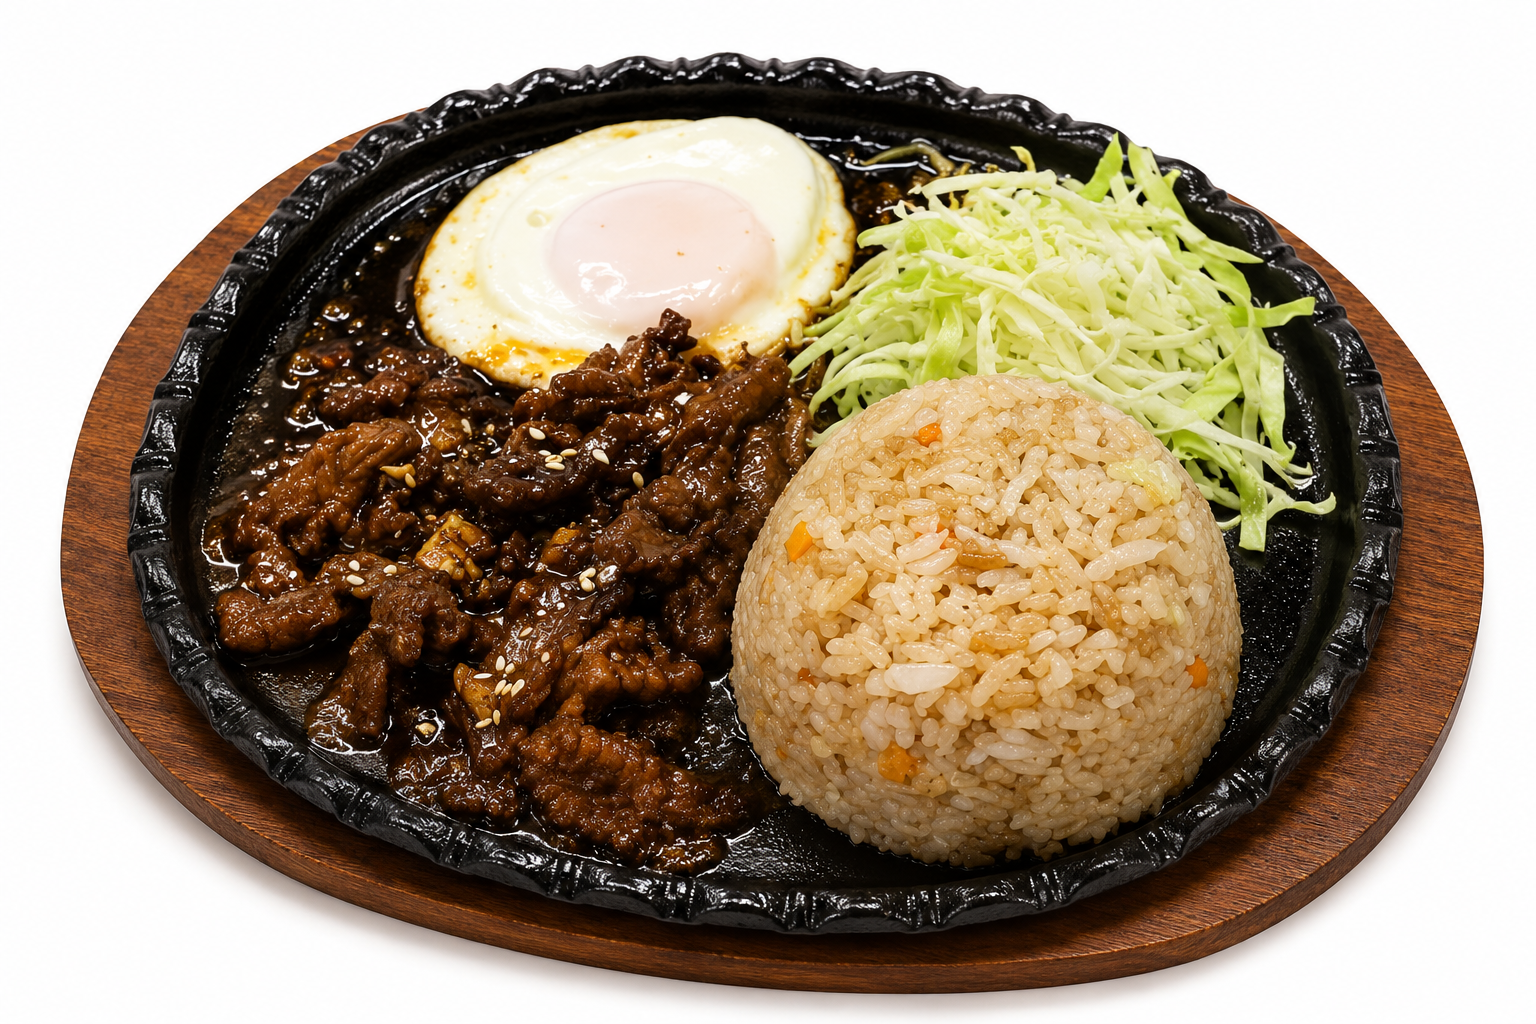
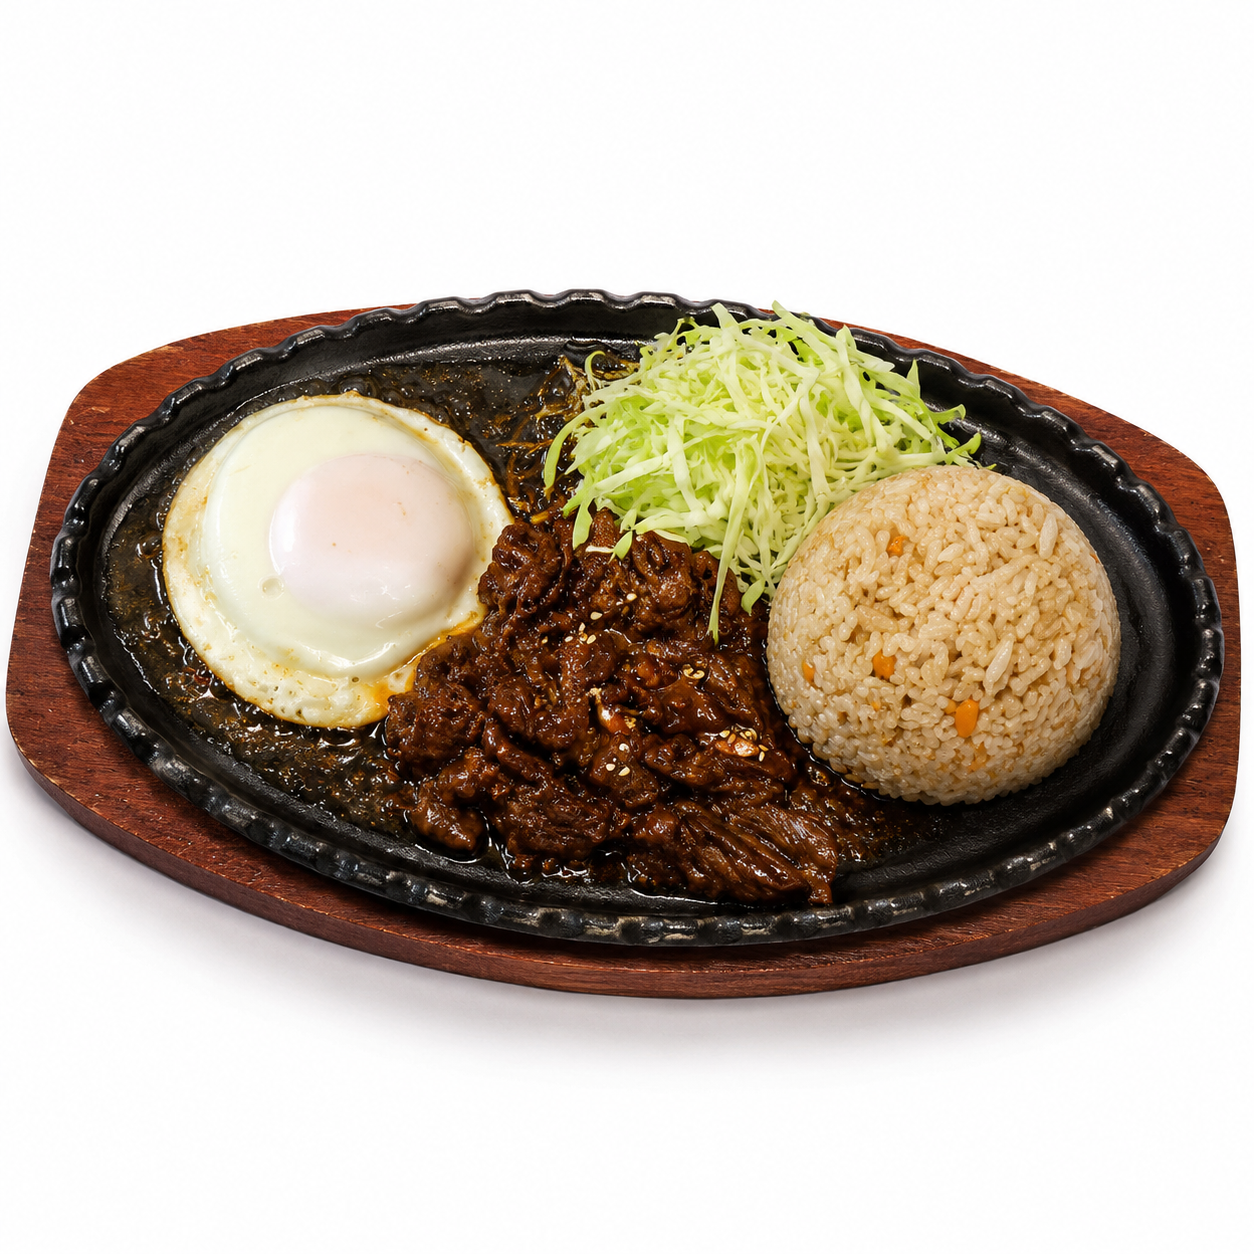
Update silog and mami photos

diff --git a/app.js b/app.js
@@ -22,9 +22,12 @@ const images = {
   chaoFanShanghai: "assets/menu/chao-fan-shanghai.png",
   chaoFanFriedCarajay: "assets/menu/chao-fan-fried-carajay.png",
   bangsilog: "assets/menu/bangsilog.png",
+  longsilog: "assets/menu/longsilog.png",
+  sisigSilog: "assets/menu/sisig-silog.png",
   tapsilog: "assets/menu/tapsilog.png",
   hotsilog: "assets/menu/hotsilog.png",
   hamsilog: "assets/menu/hamsilog.png",
+  porkSilog: "assets/menu/pork-silog.png",
   sausageSilog: "assets/menu/sausage-silog.png",
   tosilog: "assets/menu/tosilog.png",
   spamsilog: "assets/menu/spamsilog.png",
@@ -36,7 +39,7 @@ const images = {
   mushroomBurger: "assets/menu/mushroom-burger.png",
 };
 
-const yohanaPhotoKeys = new Set(["beefBulgogi", "chicksilog", "chaoFanFriedEgg", "chaoFanShanghai", "chaoFanFriedCarajay", "bangsilog", "tapsilog", "hotsilog", "hamsilog", "sausageSilog", "tosilog", "spamsilog", "haloHaloCoffeeRegular", "classicBurger", "originalBurger", "spicyBurger", "specialBurger", "mushroomBurger"]);
+const yohanaPhotoKeys = new Set(["beefBulgogi", "chicksilog", "chaoFanFriedEgg", "chaoFanShanghai", "chaoFanFriedCarajay", "bangsilog", "longsilog", "sisigSilog", "tapsilog", "hotsilog", "hamsilog", "porkSilog", "sausageSilog", "tosilog", "spamsilog", "haloHaloCoffeeRegular", "classicBurger", "originalBurger", "spicyBurger", "specialBurger", "mushroomBurger"]);
 const tierConfig = {
   R: { name: "Regular", serving: "1 pax", image: images.noodleRegular },
   S: { name: "Special", serving: "1 pax", image: images.noodleSpecial },
@@ -66,18 +69,18 @@ function makeTierOptions(itemName, options) {
 }
 
 const menu = [
-  ["Silog Meals", "Longsilog", 99, "Sweet homemade longganisa, garlic rice and sunny egg.", "silog"],
+  ["Silog Meals", "Longsilog", 99, "Sweet homemade longganisa, garlic rice and sunny egg.", "longsilog"],
   ["Silog Meals", "Tapsilog", 99, "Tender beef tapa with garlic rice and egg.", "tapsilog"],
   ["Silog Meals", "Tosilog", 99, "Sweet-savoury tocino, garlic rice and egg.", "tosilog"],
   ["Silog Meals", "Hotsilog", 99, "Juicy hotdogs, garlic rice and egg.", "hotsilog"],
-  ["Silog Meals", "Sisig Silog", 99, "Sizzling-style sisig over garlic rice with egg.", "silog"],
+  ["Silog Meals", "Sisig Silog", 99, "Sizzling-style sisig over garlic rice with egg.", "sisigSilog"],
   ["Silog Meals", "Bangsilog", 99, "Crispy boneless bangus, garlic rice and egg.", "bangsilog"],
   ["Silog Meals", "Hamsilog", 99, "Savoury ham, garlic rice and egg.", "hamsilog"],
   ["Silog Meals", "Spamsilog", 99, "Pan-fried Spam, garlic rice and egg.", "spamsilog"],
   ["Silog Meals", "Chicksilog", 120, "Golden fried chicken, garlic rice and egg.", "chicksilog"],
   ["Silog Meals", "Sausagesilog", 120, "Hearty sausage, garlic rice and egg.", "sausageSilog"],
   ["Silog Meals", "Beef Bulgogi Silog", 130, "Korean-style sweet beef bulgogi, garlic rice and egg.", "beefBulgogi"],
-  ["Silog Meals", "Pork Silog", 165, "Generous pork serving with garlic rice and egg.", "silog"],
+  ["Silog Meals", "Pork Silog", 165, "Generous pork serving with garlic rice and egg.", "porkSilog"],
 
   ["Rice Meals", "Sisig Tofu", 99, "Crispy tofu sisig, a meat-free bestseller.", "rice"],
   ["Rice Meals", "Beef Pares", 99, "Slow-braised beef in sweet-savoury sauce with rice.", "rice"],
